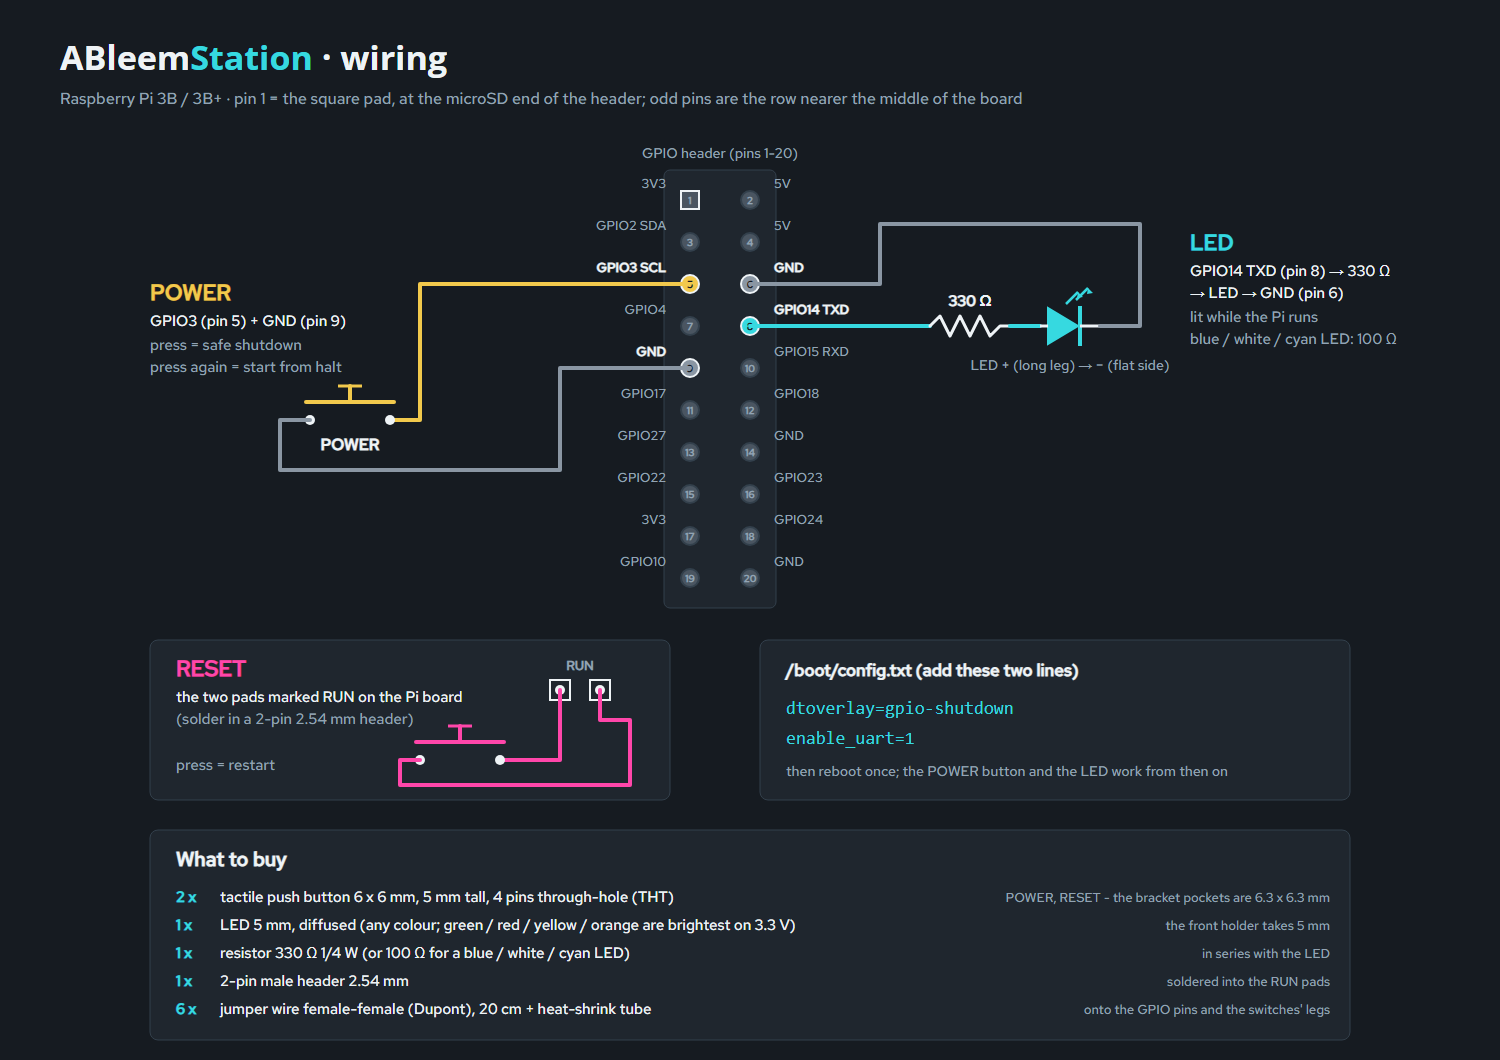
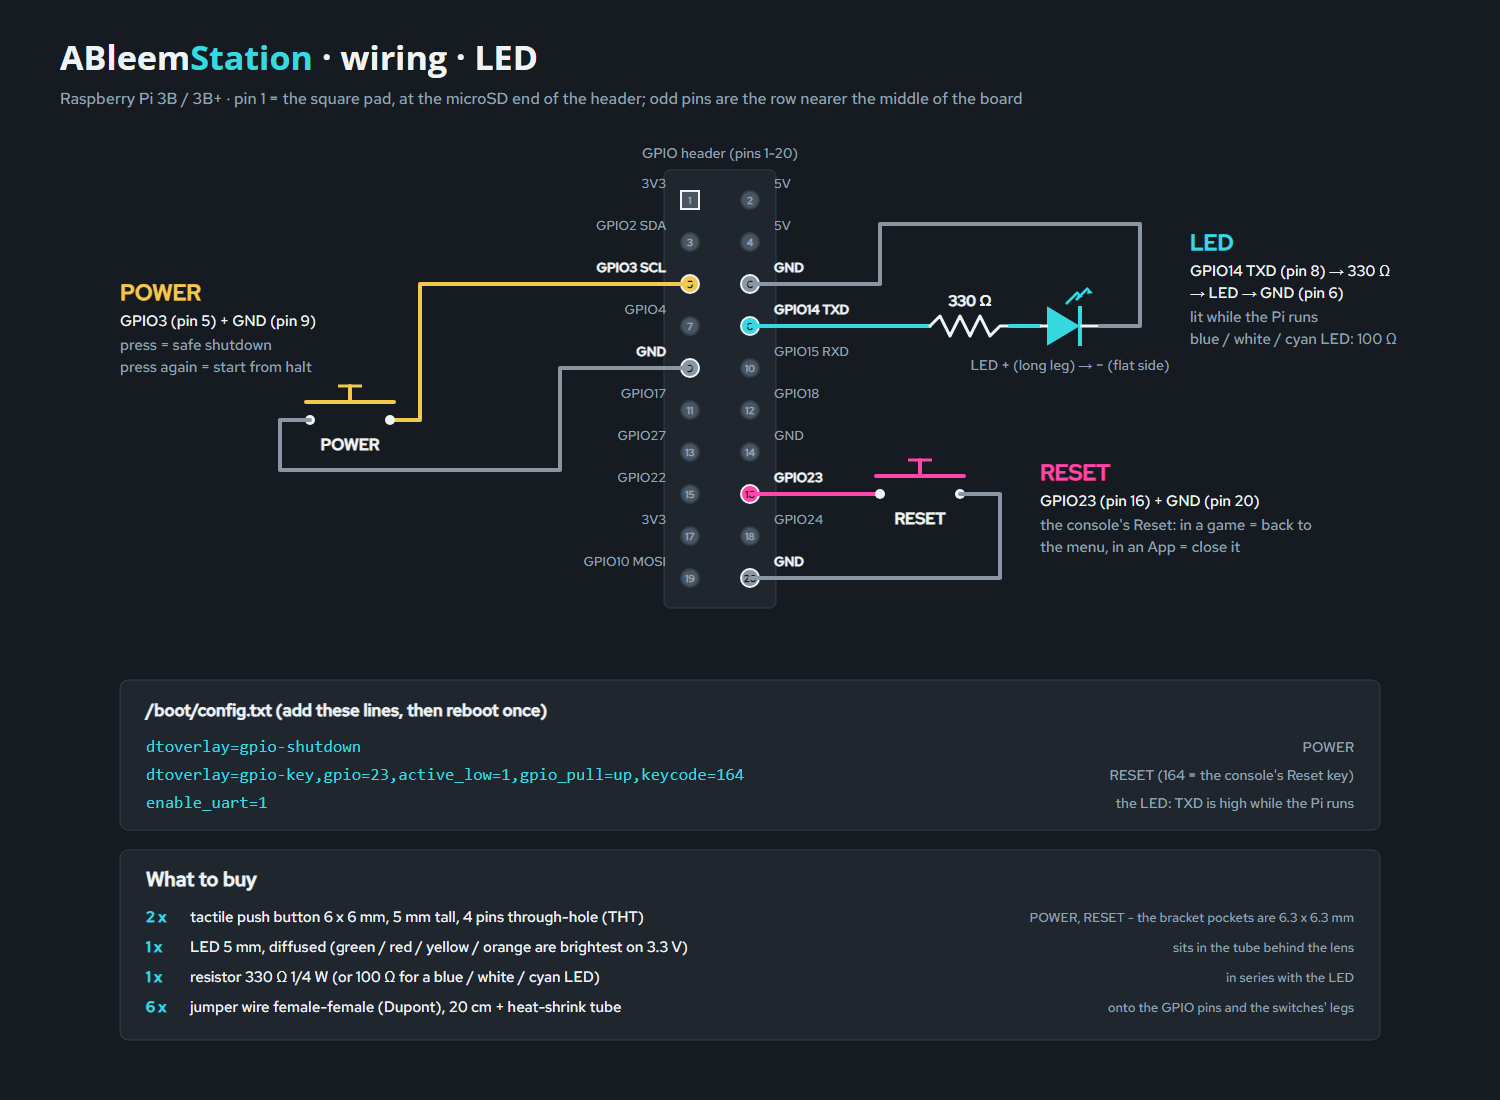
hardware/ableemstation: RESET on GPIO23 as the console's Reset key, and a wiring diagram for the RGB pixel

diff --git a/hardware/ableemstation/src/make_wiring.py b/hardware/ableemstation/src/make_wiring.py
@@ -1,8 +1,13 @@
-"""ABleemStation wiring diagram: the POWER and RESET buttons and the front LED on a Raspberry Pi 3B / 3B+, plus the parts
-to buy. Writes ../files/wiring.svg and ../files/wiring.png (headless Chrome, the fonts from fonts/).
-POWER: GPIO3 (pin 5) + GND (pin 9) - shuts down with dtoverlay=gpio-shutdown and wakes the Pi from halt.
-LED:   GPIO14/TXD (pin 8) -> resistor -> LED -> GND (pin 6) - lit while the Pi runs, with enable_uart=1.
-RESET: the two RUN pads on the board (a 2-pin header soldered in). Run:  python make_wiring.py"""
+"""ABleemStation wiring diagrams, one per front-LED version, with the parts to buy:
+  ../files/wiring.svg / .png       a plain 5 mm LED   (printed shell)
+  ../files/wiring-rgb.svg / .png   one WS2812B pixel  (printed shell-rgb)
+POWER: GPIO3 (pin 5) + GND (pin 9) - dtoverlay=gpio-shutdown: shuts down, and wakes the Pi from halt.
+RESET: GPIO23 (pin 16) + GND (pin 20) - dtoverlay=gpio-key with keycode 164 (KEY_PLAYPAUSE), the key the
+       console's Reset button sends: AutoBleem's emulators leave the game, an App is closed.
+LED:   GPIO14/TXD (pin 8) -> 330 ohm -> LED -> GND (pin 6), lit while the Pi runs (enable_uart=1).
+RGB:   5V (pin 2), GND (pin 6), data from GPIO10/SPI MOSI (pin 19) through 330 ohm; a service on the Pi sets green
+       at boot and orange at shutdown (the pixel keeps its colour while it has 5 V, so the standby stays orange).
+Run:  python make_wiring.py   (headless Chrome renders the PNGs; the fonts come from fonts/)"""
 import os
 import shutil
 import subprocess
@@ -22,12 +27,11 @@ def find_chrome():
 
 
 BG, PANEL, LINE, INK, DIM = "#161b21", "#1f262e", "#33404c", "#eef3f6", "#93a3b3"
-CYAN, MAG, YEL, GND = "#36d9e0", "#ff46aa", "#f2c94c", "#8a96a3"
-W, H = 1500, 1060
+CYAN, MAG, YEL, GND, RED, GRN = "#36d9e0", "#ff46aa", "#f2c94c", "#8a96a3", "#ff6b5e", "#3cff6e"
+W, H = 1500, 1100
 NAMES = {1: "3V3", 2: "5V", 3: "GPIO2 SDA", 4: "5V", 5: "GPIO3 SCL", 6: "GND", 7: "GPIO4", 8: "GPIO14 TXD", 9: "GND",
          10: "GPIO15 RXD", 11: "GPIO17", 12: "GPIO18", 13: "GPIO27", 14: "GND", 15: "GPIO22", 16: "GPIO23", 17: "3V3",
-         18: "GPIO24", 19: "GPIO10", 20: "GND"}
-USED = {5: YEL, 9: GND, 8: CYAN, 6: GND}
+         18: "GPIO24", 19: "GPIO10 MOSI", 20: "GND"}
 X_ODD, X_EVEN, Y0, DY = 690, 750, 200, 42
 
 
@@ -56,8 +60,15 @@ def switch(x, y, label, color):
 
 
 def resistor(x, y, label):
+    """horizontal, from (x, y) to (x + 80, y)"""
     pts = [(x, y)] + [(x + 10 + i * 10, y + (-10 if i % 2 == 0 else 10)) for i in range(6)] + [(x + 70, y), (x + 80, y)]
     return wire(pts, INK, 3) + text(x + 40, y - 20, label, 15, INK, "middle", 600)
+
+
+def resistor_v(x, y, label):
+    """vertical, from (x, y) down to (x, y + 80), the label on its left"""
+    pts = [(x, y)] + [(x + (-10 if i % 2 == 0 else 10), y + 10 + i * 10) for i in range(6)] + [(x, y + 70), (x, y + 80)]
+    return wire(pts, INK, 3) + text(x - 20, y + 46, label, 15, INK, "end", 600)
 
 
 def led(x, y):
@@ -73,102 +84,145 @@ def led(x, y):
         x + 40, y, x + 60, y, INK) + text(x + 30, y + 44, "LED  + (long leg) &#8594; &#8722; (flat side)", 14, DIM, "middle")
 
 
-def build():
+def pixel(x, y):
+    """a WS2812B strip pixel, 120 x 110: the 5V and GND pads on the left (y + 55, y + 85), DIN on the right (y + 85)"""
+    s = ['<rect x="%s" y="%s" width="120" height="110" rx="6" fill="%s" stroke="%s" stroke-width="2"/>' % (x, y, PANEL, INK),
+         '<rect x="%s" y="%s" width="40" height="34" rx="4" fill="#f4f4f0"/>' % (x + 40, y + 10),
+         '<circle cx="%s" cy="%s" r="9" fill="none" stroke="#c9c9c4" stroke-width="3"/>' % (x + 60, y + 27)]
+    for px, py in ((x, y + 55), (x, y + 85), (x + 120, y + 85)):
+        s.append('<circle cx="%s" cy="%s" r="5" fill="%s"/>' % (px, py, INK))
+    s.append(text(x + 10, y + 60, "5V", 12, INK, weight=600))
+    s.append(text(x + 10, y + 90, "GND", 12, INK, weight=600))
+    s.append(text(x + 110, y + 90, "DIN", 12, INK, "end", 600))
+    s.append(text(x + 60, y + 132, "WS2812B pixel (cut from a 5 V strip; DIN = the arrow's start)", 14, DIM, "middle"))
+    return "".join(s)
+
+
+def build(rgb):
     s = ['<svg xmlns="http://www.w3.org/2000/svg" viewBox="0 0 %d %d" width="%d" height="%d">' % (W, H, W, H),
          '<rect width="%d" height="%d" fill="%s"/>' % (W, H, BG),
-         text(60, 70, "ABleem<tspan fill=\"%s\">Station</tspan> &#183; wiring" % CYAN, 34, INK, weight=600, family="OSB"),
+         text(60, 70, "ABleem<tspan fill=\"%s\">Station</tspan> &#183; wiring &#183; %s" % (CYAN, "RGB pixel" if rgb else "LED"),
+              34, INK, weight=600, family="OSB"),
          text(60, 104, "Raspberry Pi 3B / 3B+ &#183; pin 1 = the square pad, at the microSD end of the header; odd pins are the row nearer the middle of the board", 16, DIM)]
+    used = {5: YEL, 9: GND, 16: MAG, 20: GND, 6: GND}
+    used.update({2: RED, 19: GRN} if rgb else {8: CYAN})
     # the header (pins 1-20 are all this needs)
-    s.append('<rect x="%d" y="%d" width="%d" height="%d" rx="6" fill="%s" stroke="%s"/>' % (X_ODD - 26, Y0 - 30, X_EVEN - X_ODD + 52, 10 * DY + 18, PANEL, LINE))
+    s.append('<rect x="%d" y="%d" width="%d" height="%d" rx="6" fill="%s" stroke="%s"/>' % (
+        X_ODD - 26, Y0 - 30, X_EVEN - X_ODD + 52, 10 * DY + 18, PANEL, LINE))
     s.append(text((X_ODD + X_EVEN) / 2, Y0 - 42, "GPIO header (pins 1-20)", 14, DIM, "middle"))
     for n in range(1, 21):
         x, y = pin_xy(n)
-        col = USED.get(n)
-        shape = ('<rect x="%s" y="%s" width="18" height="18" fill="%s" stroke="%s" stroke-width="2"/>' % (x - 9, y - 9, col or "#4a5561", INK)
+        col = used.get(n)
+        s.append('<rect x="%s" y="%s" width="18" height="18" fill="%s" stroke="%s" stroke-width="2"/>' % (x - 9, y - 9, col or "#4a5561", INK)
                  if n == 1 else '<circle cx="%s" cy="%s" r="9" fill="%s" stroke="%s" stroke-width="2"/>' % (x, y, col or "#4a5561", INK if col else LINE))
-        s.append(shape)
         s.append(text(x, y + 4, str(n), 10, BG if col else DIM, "middle", 700))
-        lab = "%s" % NAMES[n]
         if n % 2:
-            s.append(text(X_ODD - 24, y - 12, lab, 13, INK if col else DIM, "end", 600 if col else 400))
+            s.append(text(X_ODD - 24, y - 12, NAMES[n], 13, INK if col else DIM, "end", 600 if col else 400))
         else:
-            s.append(text(X_EVEN + 24, y - 12, lab, 13, INK if col else DIM, "start", 600 if col else 400))
+            s.append(text(X_EVEN + 24, y - 12, NAMES[n], 13, INK if col else DIM, "start", 600 if col else 400))
     # POWER: pin 5 -> button -> pin 9 (both on the odd column, to the left)
     x5, y5 = pin_xy(5)
     x9, y9 = pin_xy(9)
     s.append(wire([(x5, y5), (420, y5), (420, 420), (390, 420)], YEL))
     s.append(switch(310, 420, "POWER", YEL))
     s.append(wire([(310, 420), (280, 420), (280, 470), (560, 470), (560, y9), (x9, y9)], GND))
-    s.append(text(150, 300, "POWER", 22, YEL, weight=600))
-    s.append(text(150, 326, "GPIO3 (pin 5) + GND (pin 9)", 15, INK))
-    s.append(text(150, 350, "press = safe shutdown", 15, DIM))
-    s.append(text(150, 372, "press again = start from halt", 15, DIM))
-    # LED: pin 8 -> resistor -> LED -> pin 6 (both on the even column, to the right)
-    x8, y8 = pin_xy(8)
-    x6, y6 = pin_xy(6)
-    s.append(wire([(x8, y8), (930, y8)], CYAN))
-    s.append(resistor(930, y8, "330 &#937;"))
-    s.append(wire([(1010, y8), (1040, y8)], CYAN))
-    s.append(led(1040, y8))
-    s.append(wire([(1100, y8), (1140, y8), (1140, y6 - 60), (880, y6 - 60), (880, y6), (x6, y6)], GND))
-    s.append(text(1190, 250, "LED", 22, CYAN, weight=600))
-    s.append(text(1190, 276, "GPIO14 TXD (pin 8) &#8594; 330 &#937;", 15, INK))
-    s.append(text(1190, 298, "&#8594; LED &#8594; GND (pin 6)", 15, INK))
-    s.append(text(1190, 322, "lit while the Pi runs", 15, DIM))
-    s.append(text(1190, 344, "blue / white / cyan LED: 100 &#937;", 15, DIM))
-    # the lower panels start below the header
-    P0 = Y0 + 10 * DY + 20
-    # RESET: the RUN pads
-    s.append('<rect x="150" y="%d" width="520" height="160" rx="8" fill="%s" stroke="%s"/>' % (P0, PANEL, LINE))
-    s.append(text(176, P0 + 36, "RESET", 22, MAG, weight=600))
-    s.append(text(176, P0 + 62, "the two pads marked RUN on the Pi board", 15, INK))
-    s.append(text(176, P0 + 84, "(solder in a 2-pin 2.54 mm header)", 15, DIM))
-    s.append(text(176, P0 + 130, "press = restart", 15, DIM))
-    for px in (560, 600):
-        s.append('<rect x="%d" y="%d" width="20" height="20" fill="none" stroke="%s" stroke-width="2"/>'
-                 '<circle cx="%d" cy="%d" r="5" fill="%s"/>' % (px - 10, P0 + 40, INK, px, P0 + 50, INK))
-    s.append(text(580, P0 + 30, "RUN", 13, DIM, "middle", 600))
-    s.append(wire([(560, P0 + 50), (560, P0 + 120), (500, P0 + 120)], MAG))
-    s.append(switch(420, P0 + 120, "", MAG))
-    s.append(wire([(420, P0 + 120), (400, P0 + 120), (400, P0 + 145), (630, P0 + 145), (630, P0 + 80), (600, P0 + 80), (600, P0 + 50)], MAG))
+    s.append(text(120, 300, "POWER", 22, YEL, weight=600))
+    s.append(text(120, 326, "GPIO3 (pin 5) + GND (pin 9)", 15, INK))
+    s.append(text(120, 350, "press = safe shutdown", 15, DIM))
+    s.append(text(120, 372, "press again = start from halt", 15, DIM))
+    # RESET: pin 16 -> button -> pin 20 (both on the even column, to the right)
+    x16, y16 = pin_xy(16)
+    x20, y20 = pin_xy(20)
+    s.append(wire([(x16, y16), (880, y16)], MAG))
+    s.append(switch(880, y16, "RESET", MAG))
+    s.append(wire([(960, y16), (1000, y16), (1000, y20), (x20, y20)], GND))
+    s.append(text(1040, y16 - 14, "RESET", 22, MAG, weight=600))
+    s.append(text(1040, y16 + 12, "GPIO23 (pin 16) + GND (pin 20)", 15, INK))
+    s.append(text(1040, y16 + 36, "the console's Reset: in a game = back to", 15, DIM))
+    s.append(text(1040, y16 + 58, "the menu, in an App = close it", 15, DIM))
+    if rgb:
+        # the pixel: 5V from pin 2, GND to pin 6, data from pin 19 through 330 ohm, round the bottom of the header
+        x2, y2 = pin_xy(2)
+        x6, y6 = pin_xy(6)
+        x19, y19 = pin_xy(19)
+        px, py = 1060, 170
+        s.append(wire([(x2, y2), (1010, y2), (1010, py + 55), (px, py + 55)], RED))
+        s.append(wire([(x6, y6), (980, y6), (980, py + 85), (px, py + 85)], GND))
+        s.append(wire([(x19, y19), (610, y19), (610, 640), (1440, 640), (1440, 450)], GRN))
+        s.append(resistor_v(1440, 370, "330 &#937;"))
+        s.append(wire([(1440, 370), (1440, py + 85), (px + 120, py + 85)], GRN))
+        s.append(pixel(px, py))
+        s.append(text(1060, 350, "RGB pixel", 22, GRN, weight=600))
+        s.append(text(1060, 376, "5V (pin 2) + GND (pin 6)", 15, INK))
+        s.append(text(1060, 398, "DIN &#8592; 330 &#937; &#8592; GPIO10 (pin 19)", 15, INK))
+        s.append(text(1060, 422, "green = on, orange = standby", 15, DIM))
+    else:
+        # the LED: pin 8 -> resistor -> LED -> pin 6 (both on the even column, to the right)
+        x8, y8 = pin_xy(8)
+        x6, y6 = pin_xy(6)
+        s.append(wire([(x8, y8), (930, y8)], CYAN))
+        s.append(resistor(930, y8, "330 &#937;"))
+        s.append(wire([(1010, y8), (1040, y8)], CYAN))
+        s.append(led(1040, y8))
+        s.append(wire([(1100, y8), (1140, y8), (1140, y6 - 60), (880, y6 - 60), (880, y6), (x6, y6)], GND))
+        s.append(text(1190, 250, "LED", 22, CYAN, weight=600))
+        s.append(text(1190, 276, "GPIO14 TXD (pin 8) &#8594; 330 &#937;", 15, INK))
+        s.append(text(1190, 298, "&#8594; LED &#8594; GND (pin 6)", 15, INK))
+        s.append(text(1190, 322, "lit while the Pi runs", 15, DIM))
+        s.append(text(1190, 344, "blue / white / cyan LED: 100 &#937;", 15, DIM))
     # config.txt
-    s.append('<rect x="760" y="%d" width="590" height="160" rx="8" fill="%s" stroke="%s"/>' % (P0, PANEL, LINE))
-    s.append(text(786, P0 + 36, "/boot/config.txt (add these two lines)", 17, INK, weight=600))
-    s.append(text(786, P0 + 74, "dtoverlay=gpio-shutdown", 18, CYAN, family="monospace"))
-    s.append(text(786, P0 + 104, "enable_uart=1", 18, CYAN, family="monospace"))
-    s.append(text(786, P0 + 136, "then reboot once; the POWER button and the LED work from then on", 14, DIM))
+    P0 = 680
+    conf = [("dtoverlay=gpio-shutdown", "POWER"),
+            ("dtoverlay=gpio-key,gpio=23,active_low=1,gpio_pull=up,keycode=164", "RESET (164 = the console's Reset key)"),
+            ("dtparam=spi=on", "the pixel's data line (SPI)") if rgb else ("enable_uart=1", "the LED: TXD is high while the Pi runs")]
+    ph = 176 if rgb else 150
+    s.append('<rect x="120" y="%d" width="1260" height="%d" rx="8" fill="%s" stroke="%s"/>' % (P0, ph, PANEL, LINE))
+    s.append(text(146, P0 + 36, "/boot/config.txt (add these lines, then reboot once)", 17, INK, weight=600))
+    for i, (ln, why) in enumerate(conf):
+        s.append(text(146, P0 + 72 + i * 28, ln, 17, CYAN, family="monospace"))
+        s.append(text(1354, P0 + 72 + i * 28, why, 14, DIM, "end"))
+    if rgb:
+        s.append(text(146, P0 + 160, "+ a small service on the Pi sets the colour: green at boot, orange at shutdown (the pixel keeps it through the standby)", 14, DIM))
     # what to buy
-    B0 = P0 + 190
-    s.append('<rect x="150" y="%d" width="1200" height="210" rx="8" fill="%s" stroke="%s"/>' % (B0, PANEL, LINE))
-    s.append(text(176, B0 + 36, "What to buy", 20, INK, weight=600))
-    rows = [("2 x", "tactile push button 6 x 6 mm, 5 mm tall, 4 pins through-hole (THT)", "POWER, RESET - the bracket pockets are 6.3 x 6.3 mm"),
-            ("1 x", "LED 5 mm, diffused (any colour; green / red / yellow / orange are brightest on 3.3 V)", "the front holder takes 5 mm"),
-            ("1 x", "resistor 330 &#937; 1/4 W (or 100 &#937; for a blue / white / cyan LED)", "in series with the LED"),
-            ("1 x", "2-pin male header 2.54 mm", "soldered into the RUN pads"),
-            ("6 x", "jumper wire female-female (Dupont), 20 cm + heat-shrink tube", "onto the GPIO pins and the switches' legs")]
+    B0 = P0 + ph + 20
+    s.append('<rect x="120" y="%d" width="1260" height="190" rx="8" fill="%s" stroke="%s"/>' % (B0, PANEL, LINE))
+    s.append(text(146, B0 + 36, "What to buy", 20, INK, weight=600))
+    rows = [("2 x", "tactile push button 6 x 6 mm, 5 mm tall, 4 pins through-hole (THT)", "POWER, RESET - the bracket pockets are 6.3 x 6.3 mm")]
+    if rgb:
+        rows += [("1 x", "WS2812B LED strip, 5 V, 60 LEDs/m, 10 mm wide (one pixel is cut off it)", "slides into the slot behind the lens"),
+                 ("1 x", "resistor 330 &#937; 1/4 W", "in the data line, close to the pixel"),
+                 ("7 x", "jumper wire female-female (Dupont), 20 cm + heat-shrink tube", "three soldered to the pixel's pads")]
+    else:
+        rows += [("1 x", "LED 5 mm, diffused (green / red / yellow / orange are brightest on 3.3 V)", "sits in the tube behind the lens"),
+                 ("1 x", "resistor 330 &#937; 1/4 W (or 100 &#937; for a blue / white / cyan LED)", "in series with the LED"),
+                 ("6 x", "jumper wire female-female (Dupont), 20 cm + heat-shrink tube", "onto the GPIO pins and the switches' legs")]
     for i, (q, a, b) in enumerate(rows):
-        y = B0 + 72 + i * 28
-        s.append(text(176, y, q, 15, CYAN, weight=600))
-        s.append(text(220, y, a, 15, INK))
-        s.append(text(1330, y, b, 13, DIM, "end"))
+        y = B0 + 72 + i * 30
+        s.append(text(146, y, q, 15, CYAN, weight=600))
+        s.append(text(190, y, a, 15, INK))
+        s.append(text(1354, y, b, 13, DIM, "end"))
     s.append("</svg>")
     return "".join(s)
 
 
-def main():
-    svg = build()
-    open(os.path.join(OUT, "wiring.svg"), "w", encoding="utf-8", newline="\n").write(svg)
+def render(name, svg):
+    open(os.path.join(OUT, name + ".svg"), "w", encoding="utf-8", newline="\n").write(svg)
     css = ('@font-face{font-family:RH;src:url("%s")}@font-face{font-family:OSB;src:url("%s")}*{margin:0}svg{display:block}' % (
         "file:///" + os.path.join(FONTS, "RedHatText-Medium.ttf").replace("\\", "/"),
         "file:///" + os.path.join(FONTS, "OpenSans-Bold.ttf").replace("\\", "/")))
-    page = os.path.join(OUT, "_wiring.html")
+    page = os.path.join(OUT, "_" + name + ".html")
     open(page, "w", encoding="utf-8", newline="\n").write("<!doctype html><style>%s</style>%s" % (css, svg))
     subprocess.run([find_chrome(), "--headless=new", "--disable-gpu", "--hide-scrollbars", "--allow-file-access-from-files",
                     "--force-device-scale-factor=1", "--window-size=%d,%d" % (W, H), "--virtual-time-budget=3000",
-                    "--screenshot=" + os.path.join(OUT, "wiring.png"), "file:///" + page.replace("\\", "/")],
+                    "--screenshot=" + os.path.join(OUT, name + ".png"), "file:///" + page.replace("\\", "/")],
                    check=True, stdout=subprocess.DEVNULL, stderr=subprocess.DEVNULL)
     os.remove(page)
-    print("written:", os.path.join(OUT, "wiring.png"))
+    print("written:", os.path.join(OUT, name + ".png"))
+
+
+def main():
+    render("wiring", build(False))
+    render("wiring-rgb", build(True))
 
 
 if __name__ == "__main__":

diff --git a/hardware/ableemstation/README.md b/hardware/ableemstation/README.md
@@ -19,7 +19,8 @@ Open `files/ableemstation-viewer.html` in a browser for the 3D model (orbit, exp
 | `renders/` | 3/4, front, back, side, exploded with the Pi, X-ray; `colors/` + `colorways.png` = the colour options |
 | `stickers/ableemstation-stickers-A4.pdf` | the sticker sheet, 1:1, two sets, cut lines; `stickers/*.svg` / `*.png` = each sticker |
 | `stickers/cricut-144dpi/` | one transparent PNG per sticker at 144 dpi, for a Cricut's Print Then Cut |
-| `wiring.svg`, `wiring.png` | the wiring diagram + what to buy (`src/make_wiring.py`) |
+| `wiring.svg`, `wiring.png` | the wiring diagram + what to buy, plain LED (`src/make_wiring.py`) |
+| `wiring-rgb.svg`, `wiring-rgb.png` | the same with a WS2812B RGB pixel instead of the LED |
 | `orca/` | Orca Slicer process profiles: "ABleemStation - ASA" (quality) and "ABleemStation - ASA Prototype" (fast fit test) |
 
 Layout: back = power, HDMI, audio (the TV cables). Seen from the front, the USB + Ethernet are on the left side,
@@ -68,21 +69,29 @@ multi-material unit, or Add pause for a manual swap; `M600` only if the printer 
 | 4 | M3 x 8 countersunk screw (base -> inserts) |
 | 4 | M2.5 x 5 screw (Pi -> standoffs, self-tapping) |
 | 2 | 6 x 6 mm tactile switch, 5 mm tall, 4 pins through-hole, into the bracket's pockets, legs bent back |
-| 1 | 5 mm diffused LED + 330 Ω 1/4 W resistor (100 Ω for blue / white / cyan), into the front holder |
-| 1 | 2-pin male header 2.54 mm, soldered into the RUN pads |
-| 6 | jumper wire female-female (Dupont), 20 cm, + heat-shrink tube |
+| 1 | the front light, either: a 5 mm diffused LED + 330 Ω 1/4 W resistor (100 Ω for blue / white / cyan), or one WS2812B pixel cut from a 5 V, 10 mm strip + 330 Ω resistor |
+| 6-7 | jumper wire female-female (Dupont), 20 cm, + heat-shrink tube |
 | 4 | rubber feet Ø 12 mm |
 
 ## Wiring (BCM numbers, physical pins in brackets)
 
+Two versions of the front light, the same buttons:
+
 ![wiring](files/wiring.png)
 
+![wiring, RGB pixel](files/wiring-rgb.png)
 
 - **POWER**: GPIO3 (pin 5) to GND (pin 9); `dtoverlay=gpio-shutdown` in `config.txt` - press to shut down, press
   again to wake the Pi from halt.
-- **RESET**: across the Pi 3's **RUN** pads (solder a 2-pin header).
-- **LED**: GPIO14 / TXD (pin 8) -> 330 Ω -> LED -> GND (pin 6); with `enable_uart=1` it is lit while the Pi runs.
-  Green / red / yellow / orange LEDs are the brightest on 3.3 V; a blue / white / cyan one wants 100 Ω instead.
+- **RESET**: GPIO23 (pin 16) to GND (pin 20);
+  `dtoverlay=gpio-key,gpio=23,active_low=1,gpio_pull=up,keycode=164` in `config.txt`. Keycode 164 is the key the
+  PlayStation Classic's Reset button sends, so AutoBleem treats it the same way: in a game it goes back to the menu,
+  in an App it closes the App. It is a software reset, not a power cycle.
+- **LED** (plain version): GPIO14 / TXD (pin 8) -> 330 Ω -> LED -> GND (pin 6); with `enable_uart=1` it is lit while
+  the Pi runs. Green / red / yellow / orange LEDs are the brightest on 3.3 V; a blue / white / cyan one wants 100 Ω.
+- **RGB pixel** (RGB version): 5V (pin 2), GND (pin 6), DIN <- 330 Ω <- GPIO10 / SPI MOSI (pin 19), with
+  `dtparam=spi=on`. A small service on the Pi sets the colour - green while it runs, orange at shutdown; the pixel
+  keeps its last colour as long as it has 5 V, so the standby stays orange like on the console.
 
 ## Stickers
 
